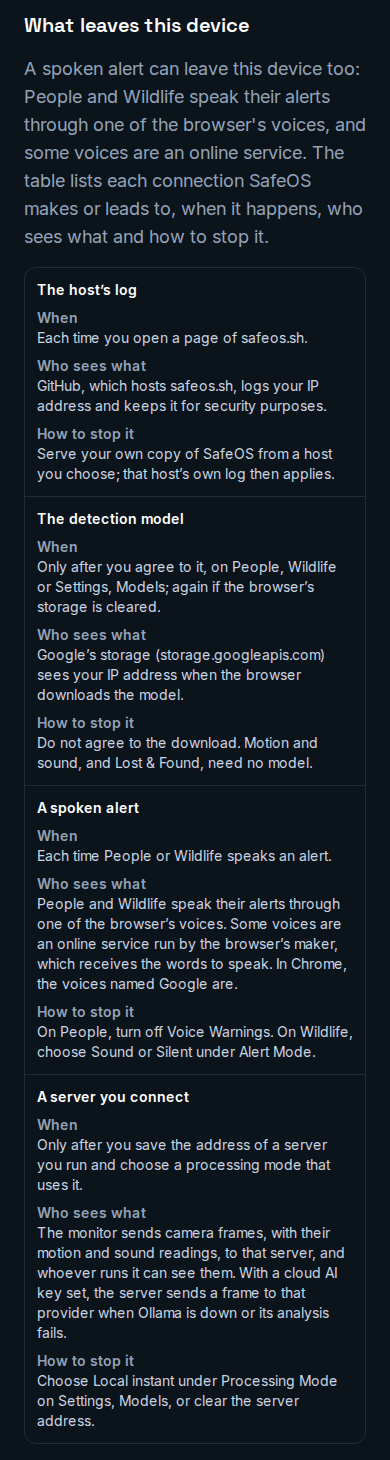
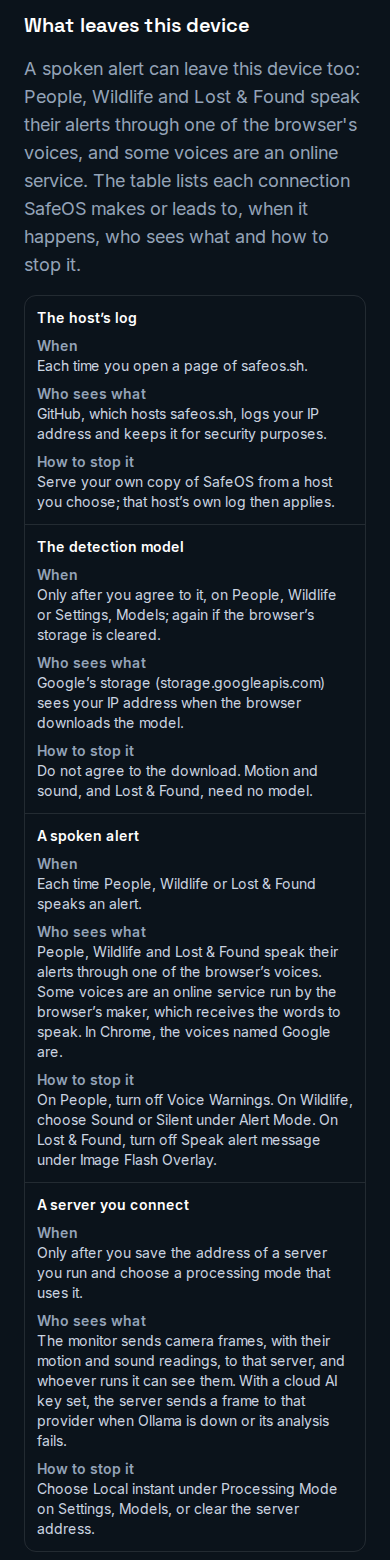
docs: refresh the before and after pictures from the Pictures run on 521be90

Changed region(s): [[0.0615, 0.0, 0.9231, 0.9863], [0.8, 0.2466, 0.8308, 0.2774]]

diff --git a/docs/pictures/pr-69/README.md b/docs/pictures/pr-69/README.md
@@ -1,7 +1,7 @@
 # Privacy, storage and model words, and the connections table
 
-Paired captures from CI. [Pictures run](https://github.com/framerslab/safeos/actions/runs/45870354281)
-The before build uses `ab7512f5f292046522062cd4c1fdf2e056a85c59`. The after build is for the pull request head `69d38dbd0b6a2da44aa2ba8ff16319e3cf22819b`.
+Paired captures from CI. [Pictures run](https://github.com/framerslab/safeos/actions/runs/45925525980)
+The before build uses the base, `d70ec8f0e4bcbf315c90d66243aaa9ff50fb8141`. The after build is for the pull request head `521be9028c61e6905588609c87efa1bce7d48be8`.
 Each picture is cut from the run's full-page capture of the page it names, at the width and look it names.
 The open storage card on the home page is captured only for the pull request head.
 
@@ -9,10 +9,10 @@ The open storage card on the home page is captured only for the pull request hea
 | --- | --- | --- |
 | Privacy page, where the saved pictures are kept, 1280 px, dark look | [Before](before/privacy-storage-1280-dark.png) | [After](after/privacy-storage-1280-dark.png) |
 | Privacy page, where the saved pictures are kept, 1280 px, light look | [Before](before/privacy-storage-1280-light.png) | [After](after/privacy-storage-1280-light.png) |
-| Privacy page, what leaves this device, 1280 px, dark look | [Before](before/privacy-connections-1280-dark.png) | [After](after/privacy-connections-1280-dark.png) |
-| Privacy page, what leaves this device, 1280 px, light look | [Before](before/privacy-connections-1280-light.png) | [After](after/privacy-connections-1280-light.png) |
-| Privacy page, what leaves this device, 390 px, light look | [Before](before/privacy-connections-390-light.png) | [After](after/privacy-connections-390-light.png) |
-| Privacy page, what leaves this device, 390 px, dark look | [Before](before/privacy-connections-390-dark.png) | [After](after/privacy-connections-390-dark.png) |
+| Privacy page, what leaves this device (People, Wildlife and Lost & Found speak), 1280 px, dark look | [Before](before/privacy-connections-1280-dark.png) | [After](after/privacy-connections-1280-dark.png) |
+| Privacy page, what leaves this device (People, Wildlife and Lost & Found speak), 1280 px, light look | [Before](before/privacy-connections-1280-light.png) | [After](after/privacy-connections-1280-light.png) |
+| Privacy page, what leaves this device (People, Wildlife and Lost & Found speak), 390 px, light look | [Before](before/privacy-connections-390-light.png) | [After](after/privacy-connections-390-light.png) |
+| Privacy page, what leaves this device (People, Wildlife and Lost & Found speak), 390 px, dark look | [Before](before/privacy-connections-390-dark.png) | [After](after/privacy-connections-390-dark.png) |
 | Home, the detection diagram and cards (graphics chip or processor; Lost and Found up to twice a second), 1280 px, dark look | [Before](before/home-detection-1280-dark.png) | [After](after/home-detection-1280-dark.png) |
 | Home, the detection diagram and cards (graphics chip or processor; Lost and Found up to twice a second), 1280 px, light look | [Before](before/home-detection-1280-light.png) | [After](after/home-detection-1280-light.png) |
 | Home, the open storage card, 1440 px, dark look | Not captured for the base | [After](after/home-storage-open-1440-dark.png) |
@@ -29,17 +29,17 @@ The open storage card on the home page is captured only for the pull request hea
 - `8074f858d6fd898a9421fe46a58f019a92332f8d85cb6fc9062ce528e830686d  before/privacy-storage-1280-light.png`
 - `efd40b4a67ead08d461b69814606c31790aac12af0483d6c7a3ba0f7c2990e23  after/privacy-storage-1280-light.png`
 - `45cd79632e32acfe16a0217da1136074a0217647ba3a811f98b14f7b4c7a8d3c  before/privacy-connections-1280-dark.png`
-- `ea3dd9d3a2703b9bfcfbce6c27001a68ecb34652f66825c245d6e3e0cbaa53e4  after/privacy-connections-1280-dark.png`
+- `5ab8ccdc66aab469a97852aa36b436b110b76c9a73cdc6636c18c32b260d3657  after/privacy-connections-1280-dark.png`
 - `03249a9d75c9e08500cb5d712a587b6beef4a6a07c65f445e3bf48cf6649cc4e  before/privacy-connections-1280-light.png`
-- `96b507e22b07984642f71c76b9f034e62bd9189c78290ea56a0f2d151c804669  after/privacy-connections-1280-light.png`
+- `9d7ab8c782471710ef07519ee8d23210302c07a387a92d5795df24b70baad544  after/privacy-connections-1280-light.png`
 - `80ff24fe614e965f38434d839a91971b494196d73815b161259f966287106186  before/privacy-connections-390-light.png`
-- `069aec1825590500291cf7024dd993c504f3bdaf3729087e190ac1882ebe8e14  after/privacy-connections-390-light.png`
+- `7bd4f5a00dc9ce4b73ca60803cdec681186fc1722fd3644a82e03363564e87a9  after/privacy-connections-390-light.png`
 - `c76e138b1b082df830b6bf932e545354f7e8139d8ce8606bca721add10e8c54e  before/privacy-connections-390-dark.png`
-- `0d8ac448ff9d475c2a6000705d9a28ac7f1b772b9436f1f1a36d426da60ed019  after/privacy-connections-390-dark.png`
-- `033b2505ddfafb1686fb08f96f78947272612503b0dbb3db6e8a7e238cea0729  before/home-detection-1280-dark.png`
-- `34a1de23971a00c8b60bfa02927676c7a843b6738970ec0e5cf80ed3348d70d9  after/home-detection-1280-dark.png`
-- `8e97338d003a2aab92b4029abd14569ba2fcce2366366d4057afa11e03877f7d  before/home-detection-1280-light.png`
-- `72ba327d21ab8c8fbc4076744cacdadb0277080edd5692bc6a5a8857bafdeed9  after/home-detection-1280-light.png`
+- `393131432a2a784880067d801902136210b0f7e7a3b4c63ac5917c9e0f75ab27  after/privacy-connections-390-dark.png`
+- `da68125b8154092afb2ea2512ffb34e5860e31b4c9568bbc196a51e402da74bc  before/home-detection-1280-dark.png`
+- `03a960fc29bd8f6ed749613fb81f20a1cca481fca9575d787c0edcb5d45390d0  after/home-detection-1280-dark.png`
+- `c131a49637484f07c8cf1fa3bdeddaca2819415a78f73ea8e9867a24980d6576  before/home-detection-1280-light.png`
+- `1c8c1a10972cc472aeca8afb1c806afad83caae2e444b8d61b8104bb95af2caa  after/home-detection-1280-light.png`
 - `11c52529206d63e15a939c6740b53ce0f1a9b3aae4e867e83d7d7a397155e67f  after/home-storage-open-1440-dark.png`
 - `70f863b70ce91bc7e383410e5114b48277c46b0d908232def1cced1a2af6bc1c  after/home-storage-open-1440-light.png`
 - `74f7044352bc37f1d03cd5ba9b98b7510d54c86824b5ba157c306a0fb0745ad9  before/about-how-it-works-1280-dark.png`
